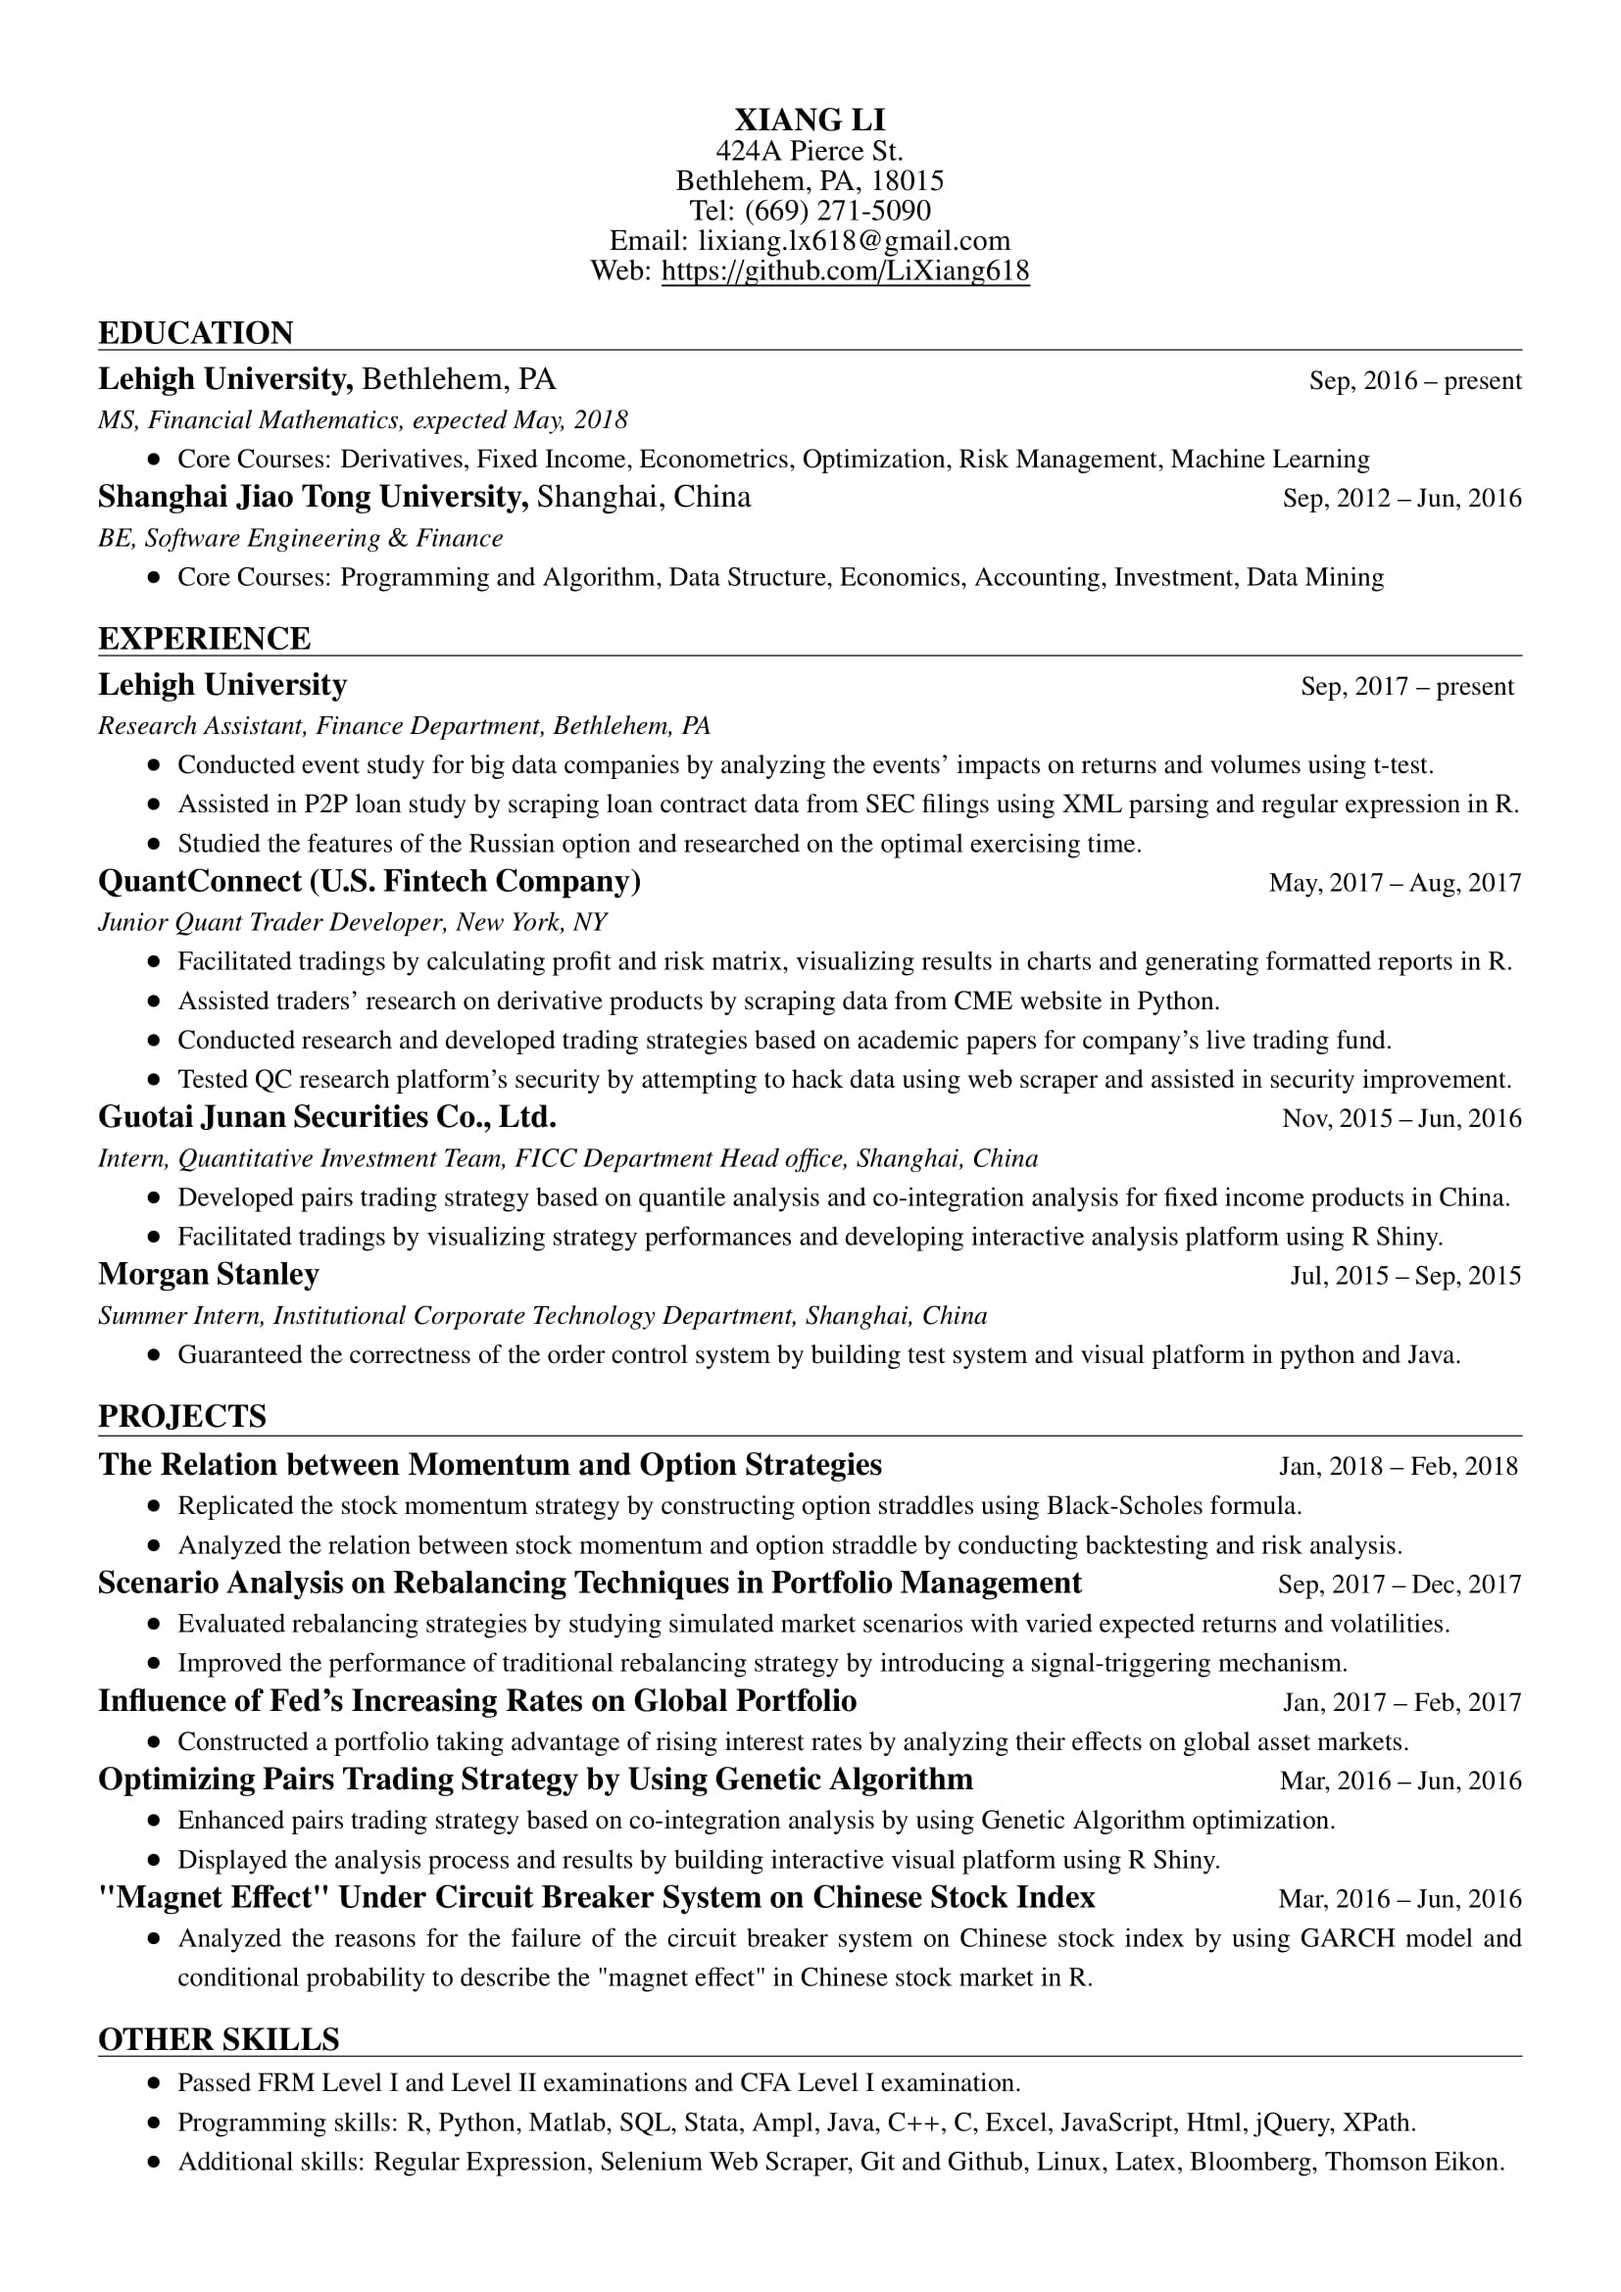
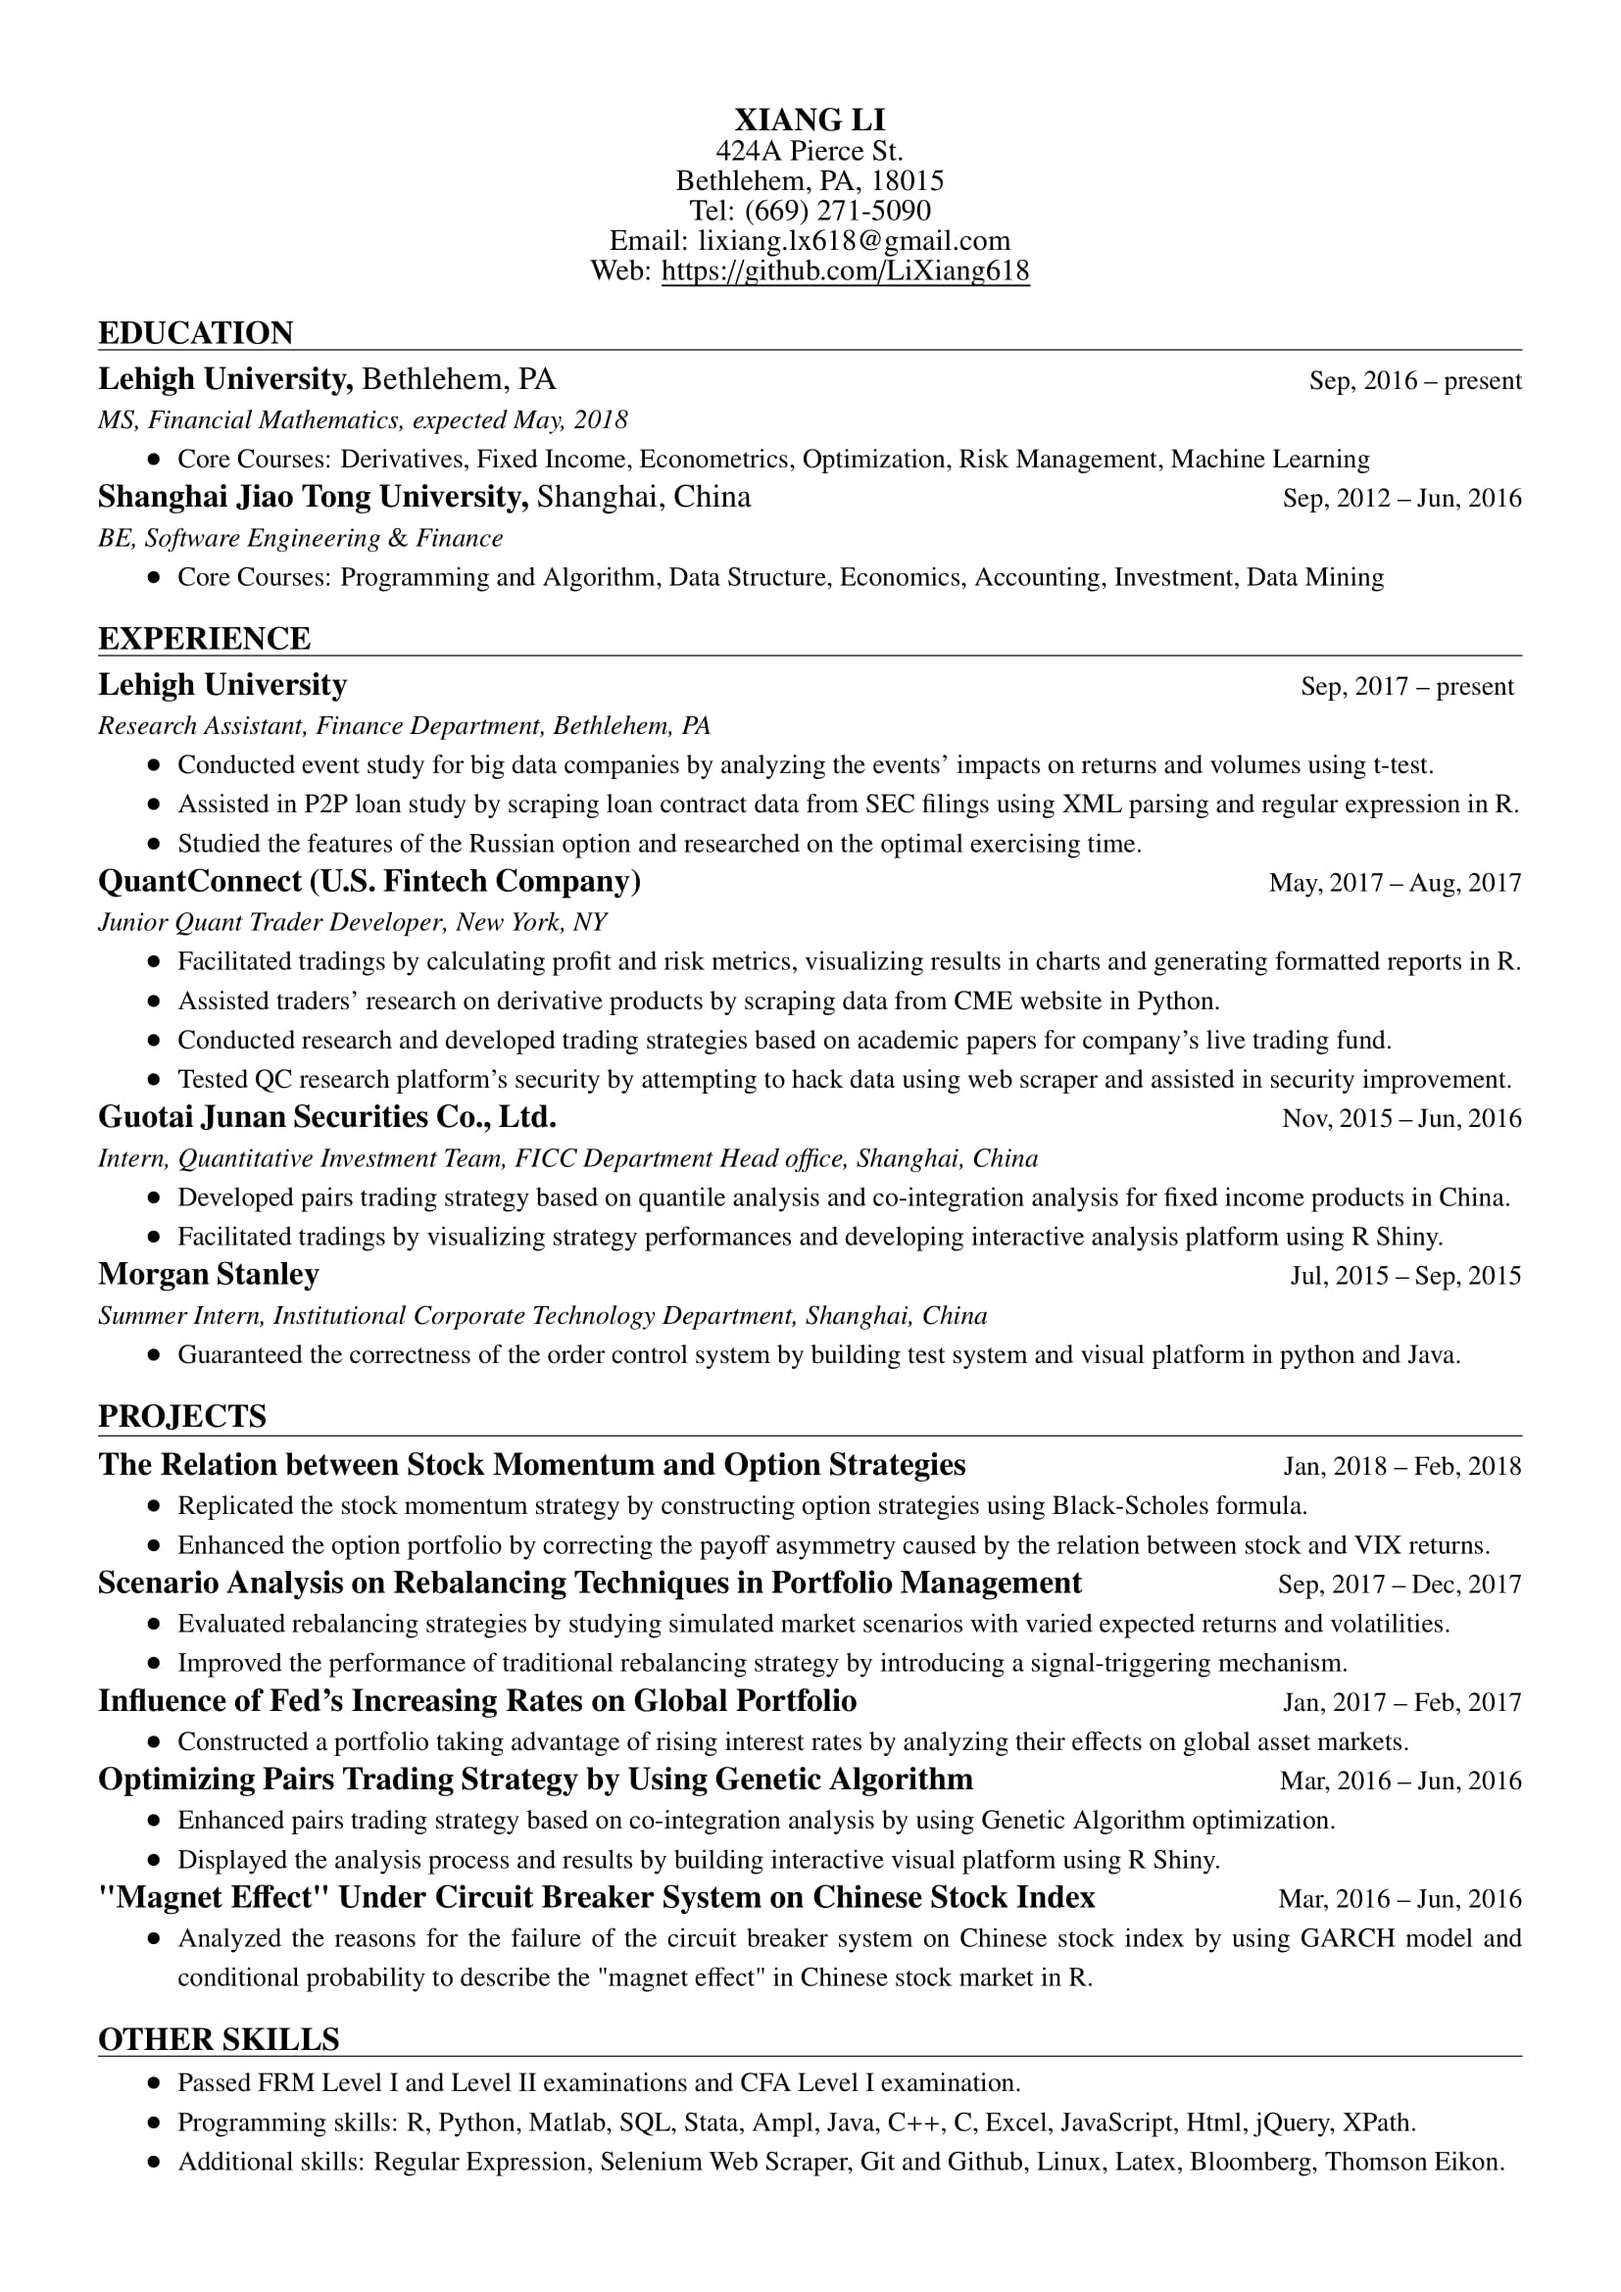
update

Changed region(s): [[0.1233, 0.6242, 0.925, 0.6866], [0.4933, 0.4057, 0.925, 0.4369]]

diff --git a/LiXiang.tex b/LiXiang.tex
@@ -182,7 +182,7 @@ urlcolor=cyan,
 {\fontsize{10pt}{10pt}\selectfont \textit{Junior Quant Trader Developer}\textit{, }\textit{New York}\textit{, NY}} \par
 \noindent 
 \begin{itemize}[noitemsep,topsep=0pt]
-\item {\fontsize{10pt}{10pt}\selectfont Facilitated tradings by calculating profit and risk matrix, visualizing results in charts and generating formatted reports in R.} \par
+\item {\fontsize{10pt}{10pt}\selectfont Facilitated tradings by calculating profit and risk metrics, visualizing results in charts and generating formatted reports in R.} \par
 \noindent 
 \item {\fontsize{10pt}{10pt}\selectfont Assisted traders' research on derivative products by scraping data from CME website in Python. } \par
 \noindent 
@@ -221,11 +221,11 @@ urlcolor=cyan,
 \vspace{6pt}
 
 \noindent
-\textbf{The Relation between Momentum and Option Strategies}  \hspace*{\marginAdj}  \hspace*{1.40in} {\fontsize{10pt}{10pt}\selectfont Jan, 2018 – Feb, 2018} \par
+\textbf{The Relation between Stock Momentum and Option Strategies}  \hspace*{\marginAdj}  \hspace*{1.00in} {\fontsize{10pt}{10pt}\selectfont Jan, 2018 – Feb, 2018} \par
 \noindent 
 \begin{itemize}[noitemsep,topsep=0pt]
-	\item {\fontsize{10pt}{10pt}\selectfont Replicated the stock momentum strategy by constructing option straddles using Black-Scholes formula.} \par
-	\item {\fontsize{10pt}{10pt}\selectfont Analyzed the relation between stock momentum and option straddle by conducting backtesting and risk analysis.} \par
+	\item {\fontsize{10pt}{10pt}\selectfont Replicated the stock momentum strategy by constructing option strategies using Black-Scholes formula.} \par
+	\item {\fontsize{10pt}{10pt}\selectfont Enhanced the option portfolio by correcting the payoff asymmetry caused by the relation between stock and VIX returns.} \par
 \end{itemize}
 
 
